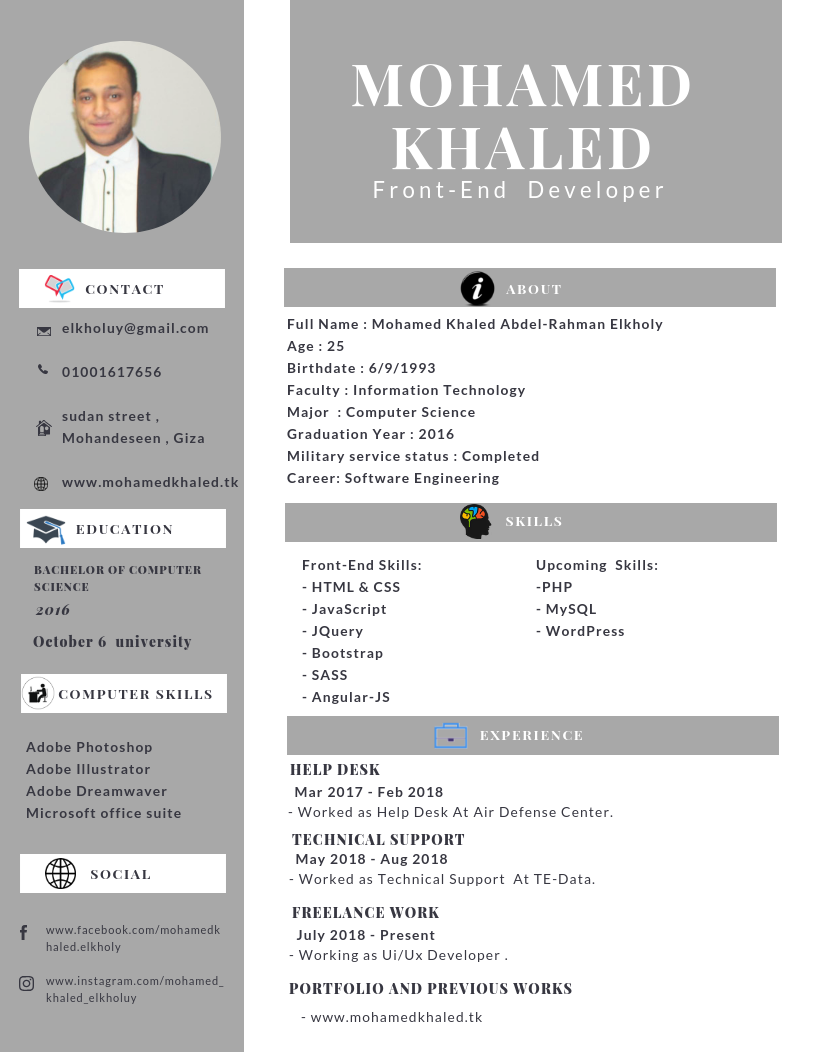
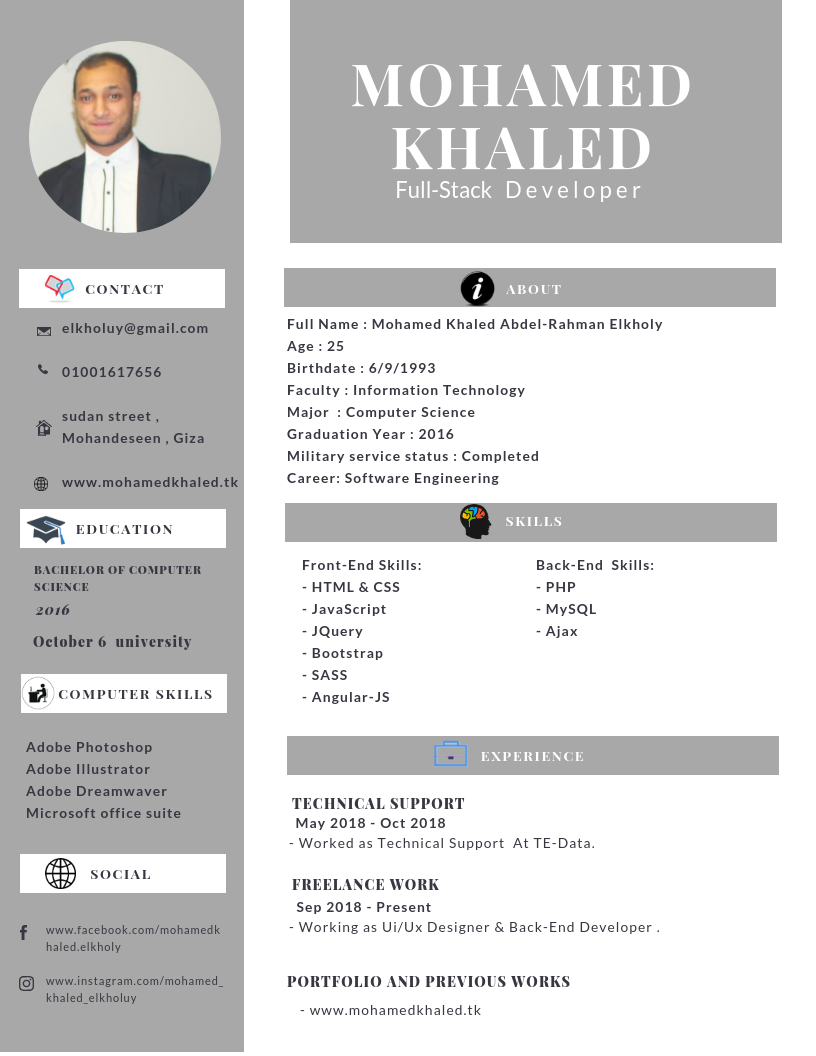
php

diff --git a/mk1/index.html b/mk1/index.html
@@ -57,7 +57,7 @@
 			
 		<div class="details">
 		<h4>Mohamed Khaled</h4>
-		<p>Web/Front-End Developer</p>
+		<p>Full-Stack PHP Developer</p>
 		</div>
 		
 		</div>
@@ -135,7 +135,7 @@
 				<div class="col-sm-6 text-center">
 				<h1>HELLO</h1>
 				<h2 class="head-border">I'M Mohamed Khaled</h2>
-				<h3>UX - UI Developer</h3>
+				<h3>Full-Stack PHP Developer</h3>
 				</div>
 
 			</div>
@@ -185,7 +185,7 @@
 
 			</h5>
 			<h5>
-				I am an experienced frontend developer who can take your idea from start to finish. I have worked as a freelancer and in a web-studio in EGYPT. Now I'm working on my own web agency, named ARMA.
+				I am an experienced Full-Stack developer who can take your idea from start to finish. I have worked as a freelancer and in a web-studio in EGYPT. Now I'm working on my own web agency, named ARMA.
 
 			</h5>
 		</div>
@@ -261,7 +261,10 @@
   <div class="chart" data-percent="80">jQuery</div>
   <div class="chart" data-percent="85">Bootstrap</div>
   <div class="chart" data-percent="75">SASS</div>
-  <div class="chart marg-b" data-percent="70">AngularJS</div>
+  <div class="chart" data-percent="70">AngularJS</div>
+  <div class="chart" data-percent="90">AJAX</div>
+  <div class="chart" data-percent="85">PHP</div>
+  <div class="chart marg-b" data-percent="90">MySQL</div>
   
 		
   </div>
@@ -918,7 +921,7 @@
 		
 		<div class="footer">
 
-	<b> &copy 2018 ARMA. All rights reserved | Design by <a href="#">Mohamed Khaled.</a></b>
+	<b> &copy 2019 ARMA. All rights reserved | Design by <a href="#">Mohamed Khaled.</a></b>
 	
 	</div>
 		 
